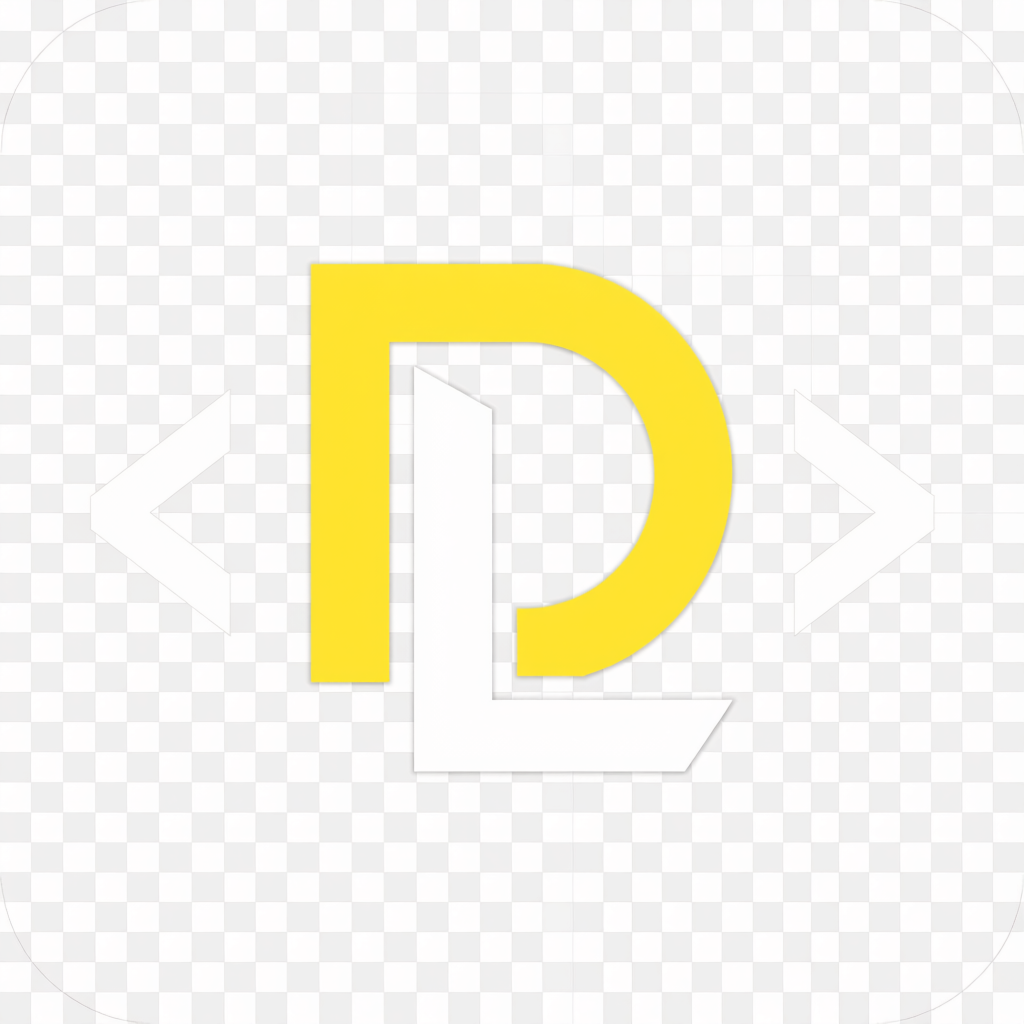
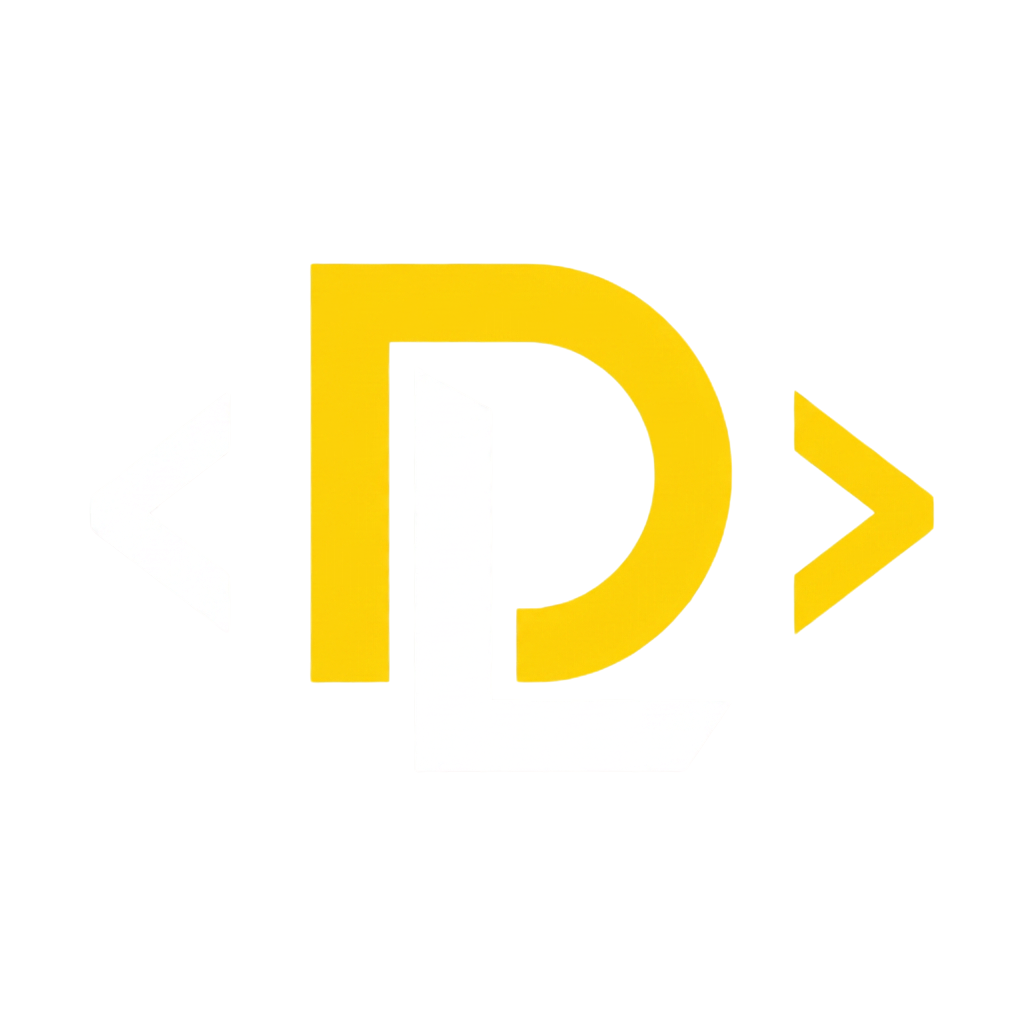
edit

diff --git a/index.html b/index.html
@@ -41,7 +41,7 @@
   <div class="nav__inner">
     <a href="#home" class="nav__logo" aria-label="Dev Logic Studio home">
       <div class="nav__logo-wrap">
-      <img src="assets/dev-logic-icon-v2.jpg" alt="Dev Logic Studio logo" width="60" height="60">
+      <img src="assets/dev-logic-icon-white-braces.png" alt="Dev Logic Studio logo" width="60" height="60">
       <!-- <svg xmlns="http://www.w3.org/2000/svg" viewBox="0 0 160 160" width="34" height="34">
         <defs>
           <linearGradient id="yg" x1="0" y1="0" x2="1" y2="1">
